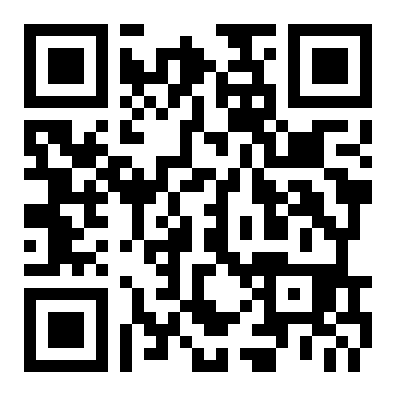
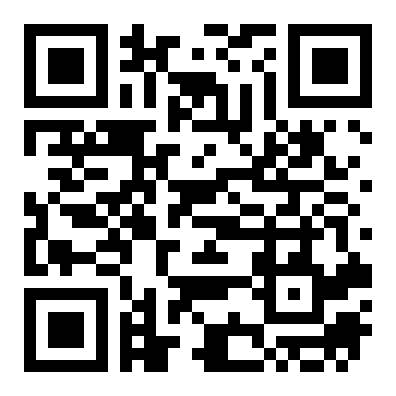
fix(deck): Majo presents slides 7 and 9; feedback QR points to the form
Claude-Session: https://claude.ai/code/session_01XRiQurdHMvr6zfbwhmZ61K

diff --git a/index.html b/index.html
@@ -469,7 +469,7 @@
 </section>
 
 <!-- 07 · Pick your role -->
-<section data-p="v">
+<section data-p="m">
   <span class="kicker demo r">Demo 2 · Tool onboarding</span>
   <h2 class="r" style="margin-bottom:18px">Pick your <em>role</em></h2>
   <div class="demo-split">
@@ -500,7 +500,7 @@
 </section>
 
 <!-- 09 · Onboarding -->
-<section data-p="v">
+<section data-p="m">
   <span class="kicker demo r">Demo 4 · Onboard</span>
   <h2 class="r" style="font-size:clamp(28px,4vw,50px);margin-bottom:18px">The assessment writes the <em>onboarding</em></h2>
   <div class="demo-split">
@@ -788,7 +788,7 @@ Inputs: <span class="ok">&lt;verbatim from the plan&gt;</span></pre></div>
     </div>
     </div>
     <div class="feedback r">
-      <a class="qr-slot" id="feedback-qr" href="https://www.youtube.com/watch?v=4EPDghNJcqQ" target="_blank" rel="noopener"><img src="assets/qrcode_feedback.png" alt="QR code for the feedback form"></a>
+      <a class="qr-slot" id="feedback-qr" href="https://forms.gle/roELcp96mMm5KLrZ7" target="_blank" rel="noopener"><img src="assets/qrcode_feedback.png" alt="QR code for the feedback form"></a>
       <div><h3>How did we do?</h3><p>Scan to tell us what worked, what didn't, and what you'd like to see next.</p></div>
     </div>
   </div>
